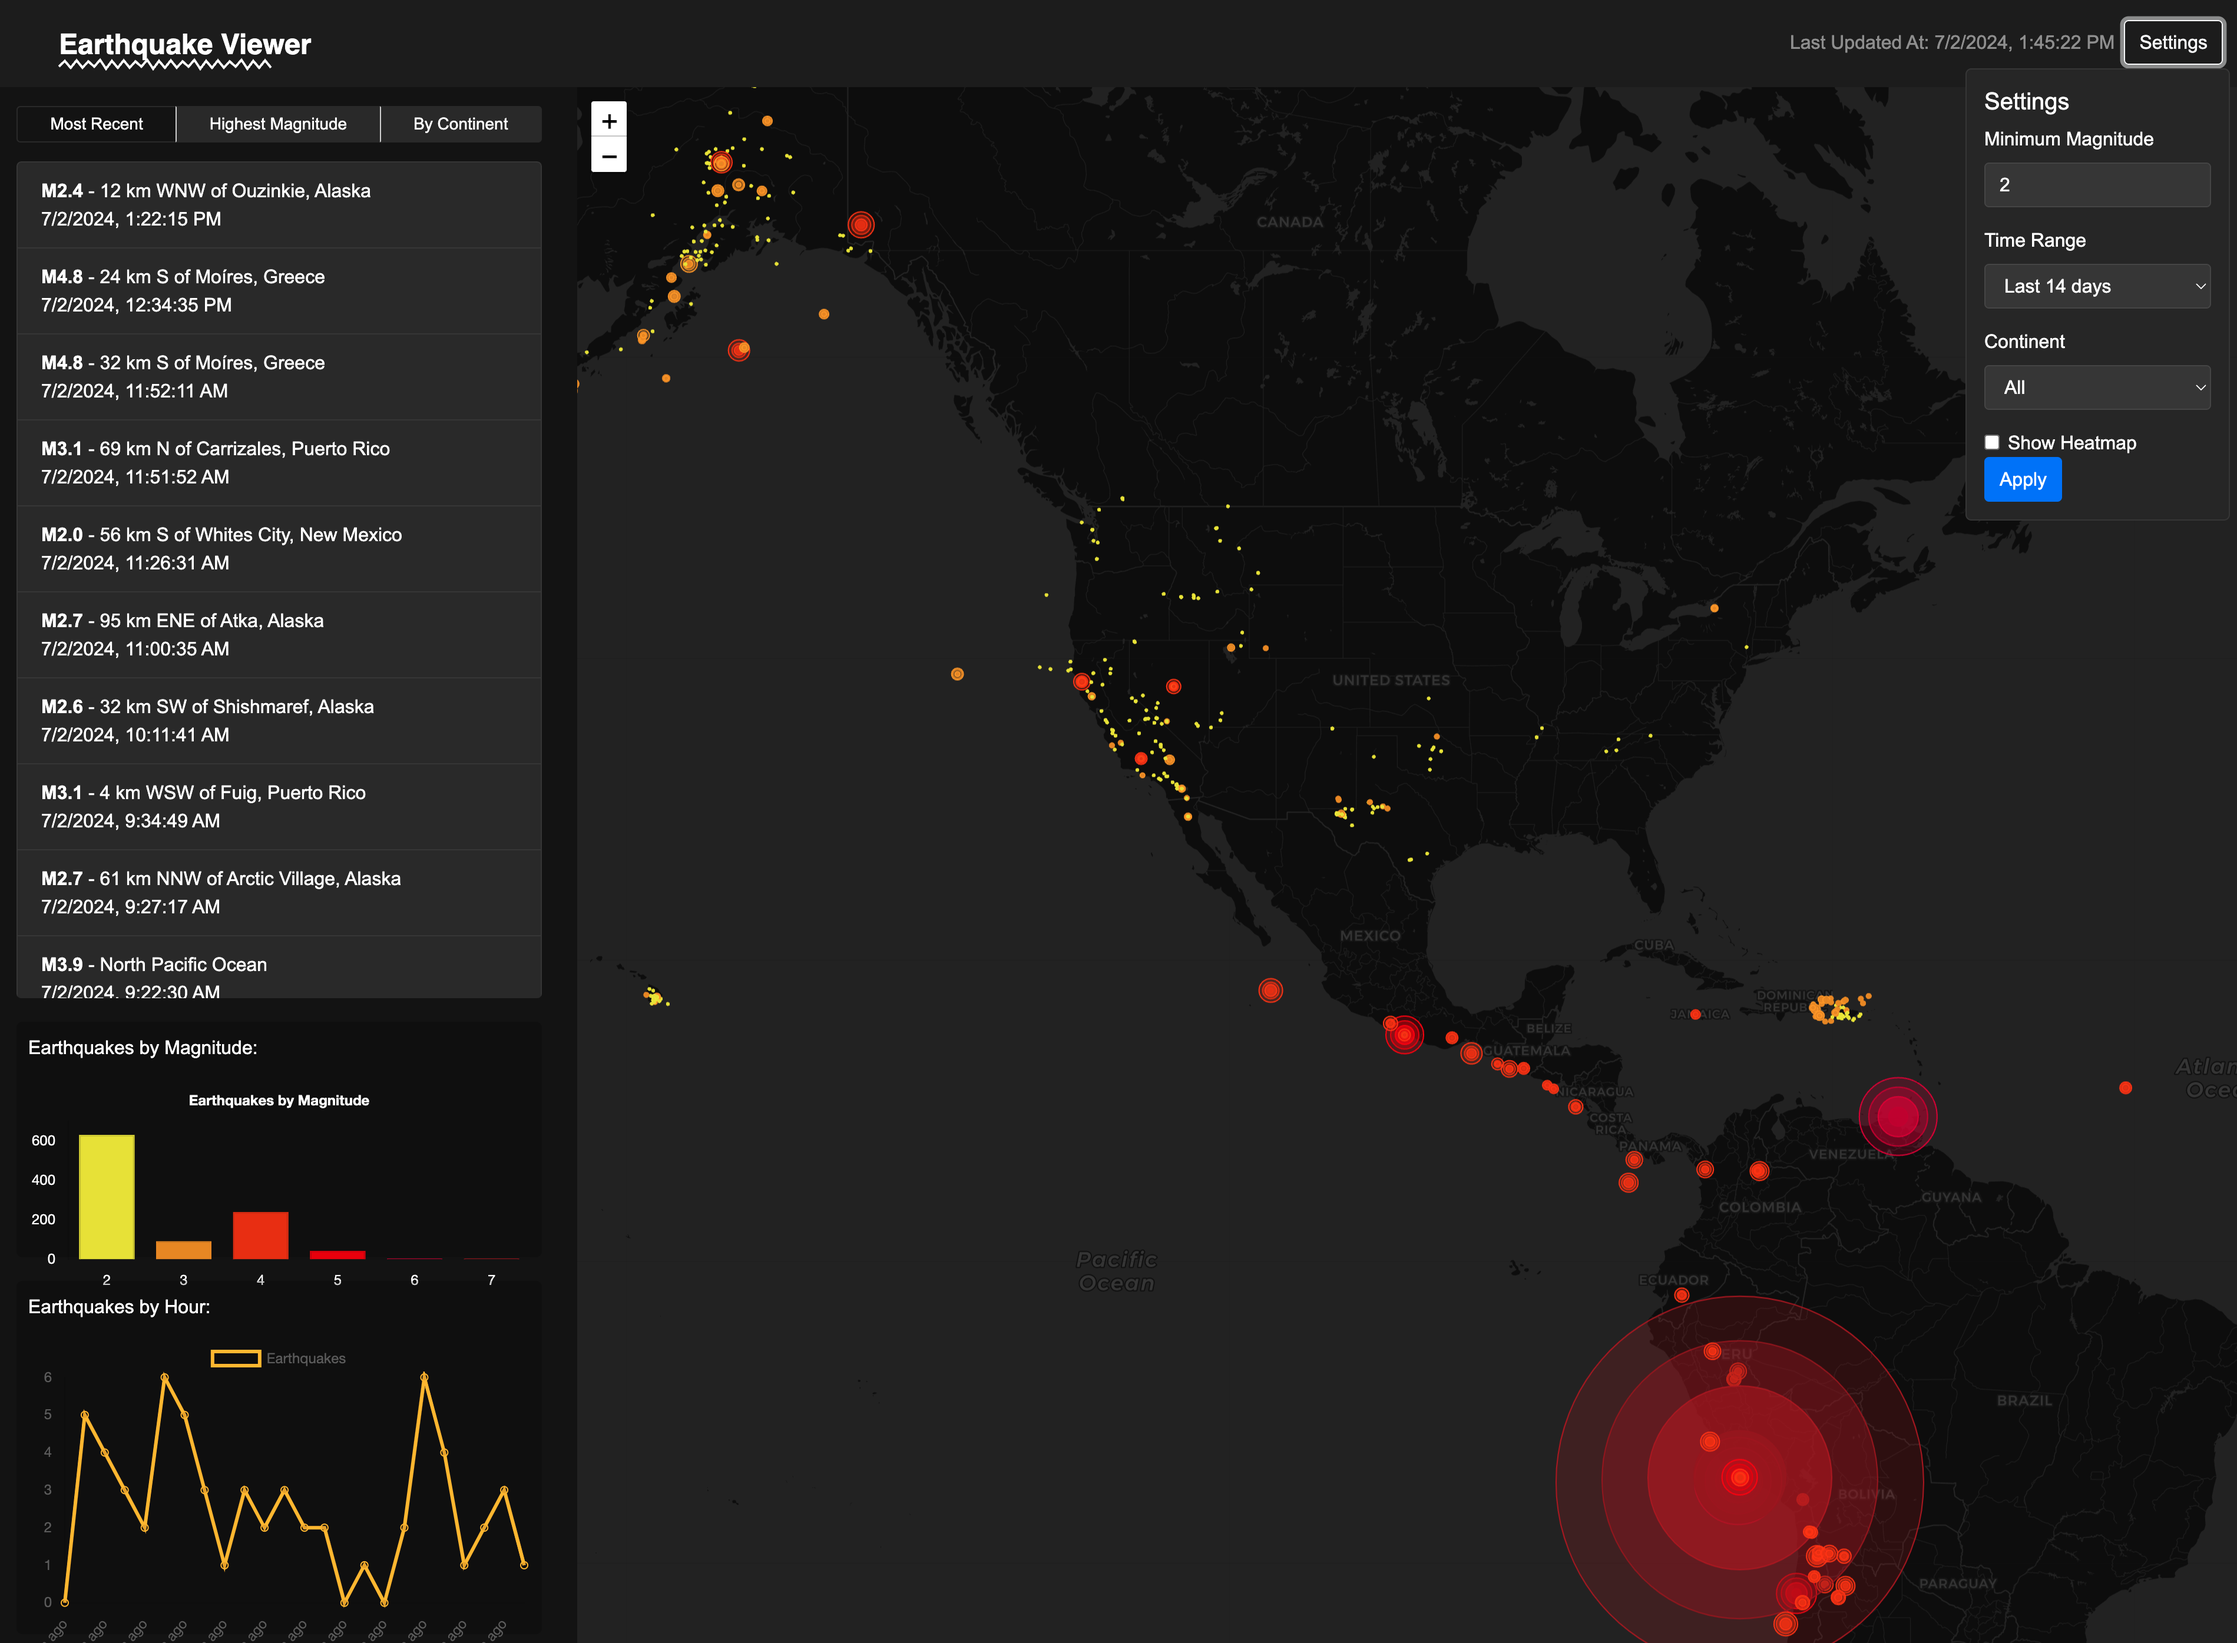
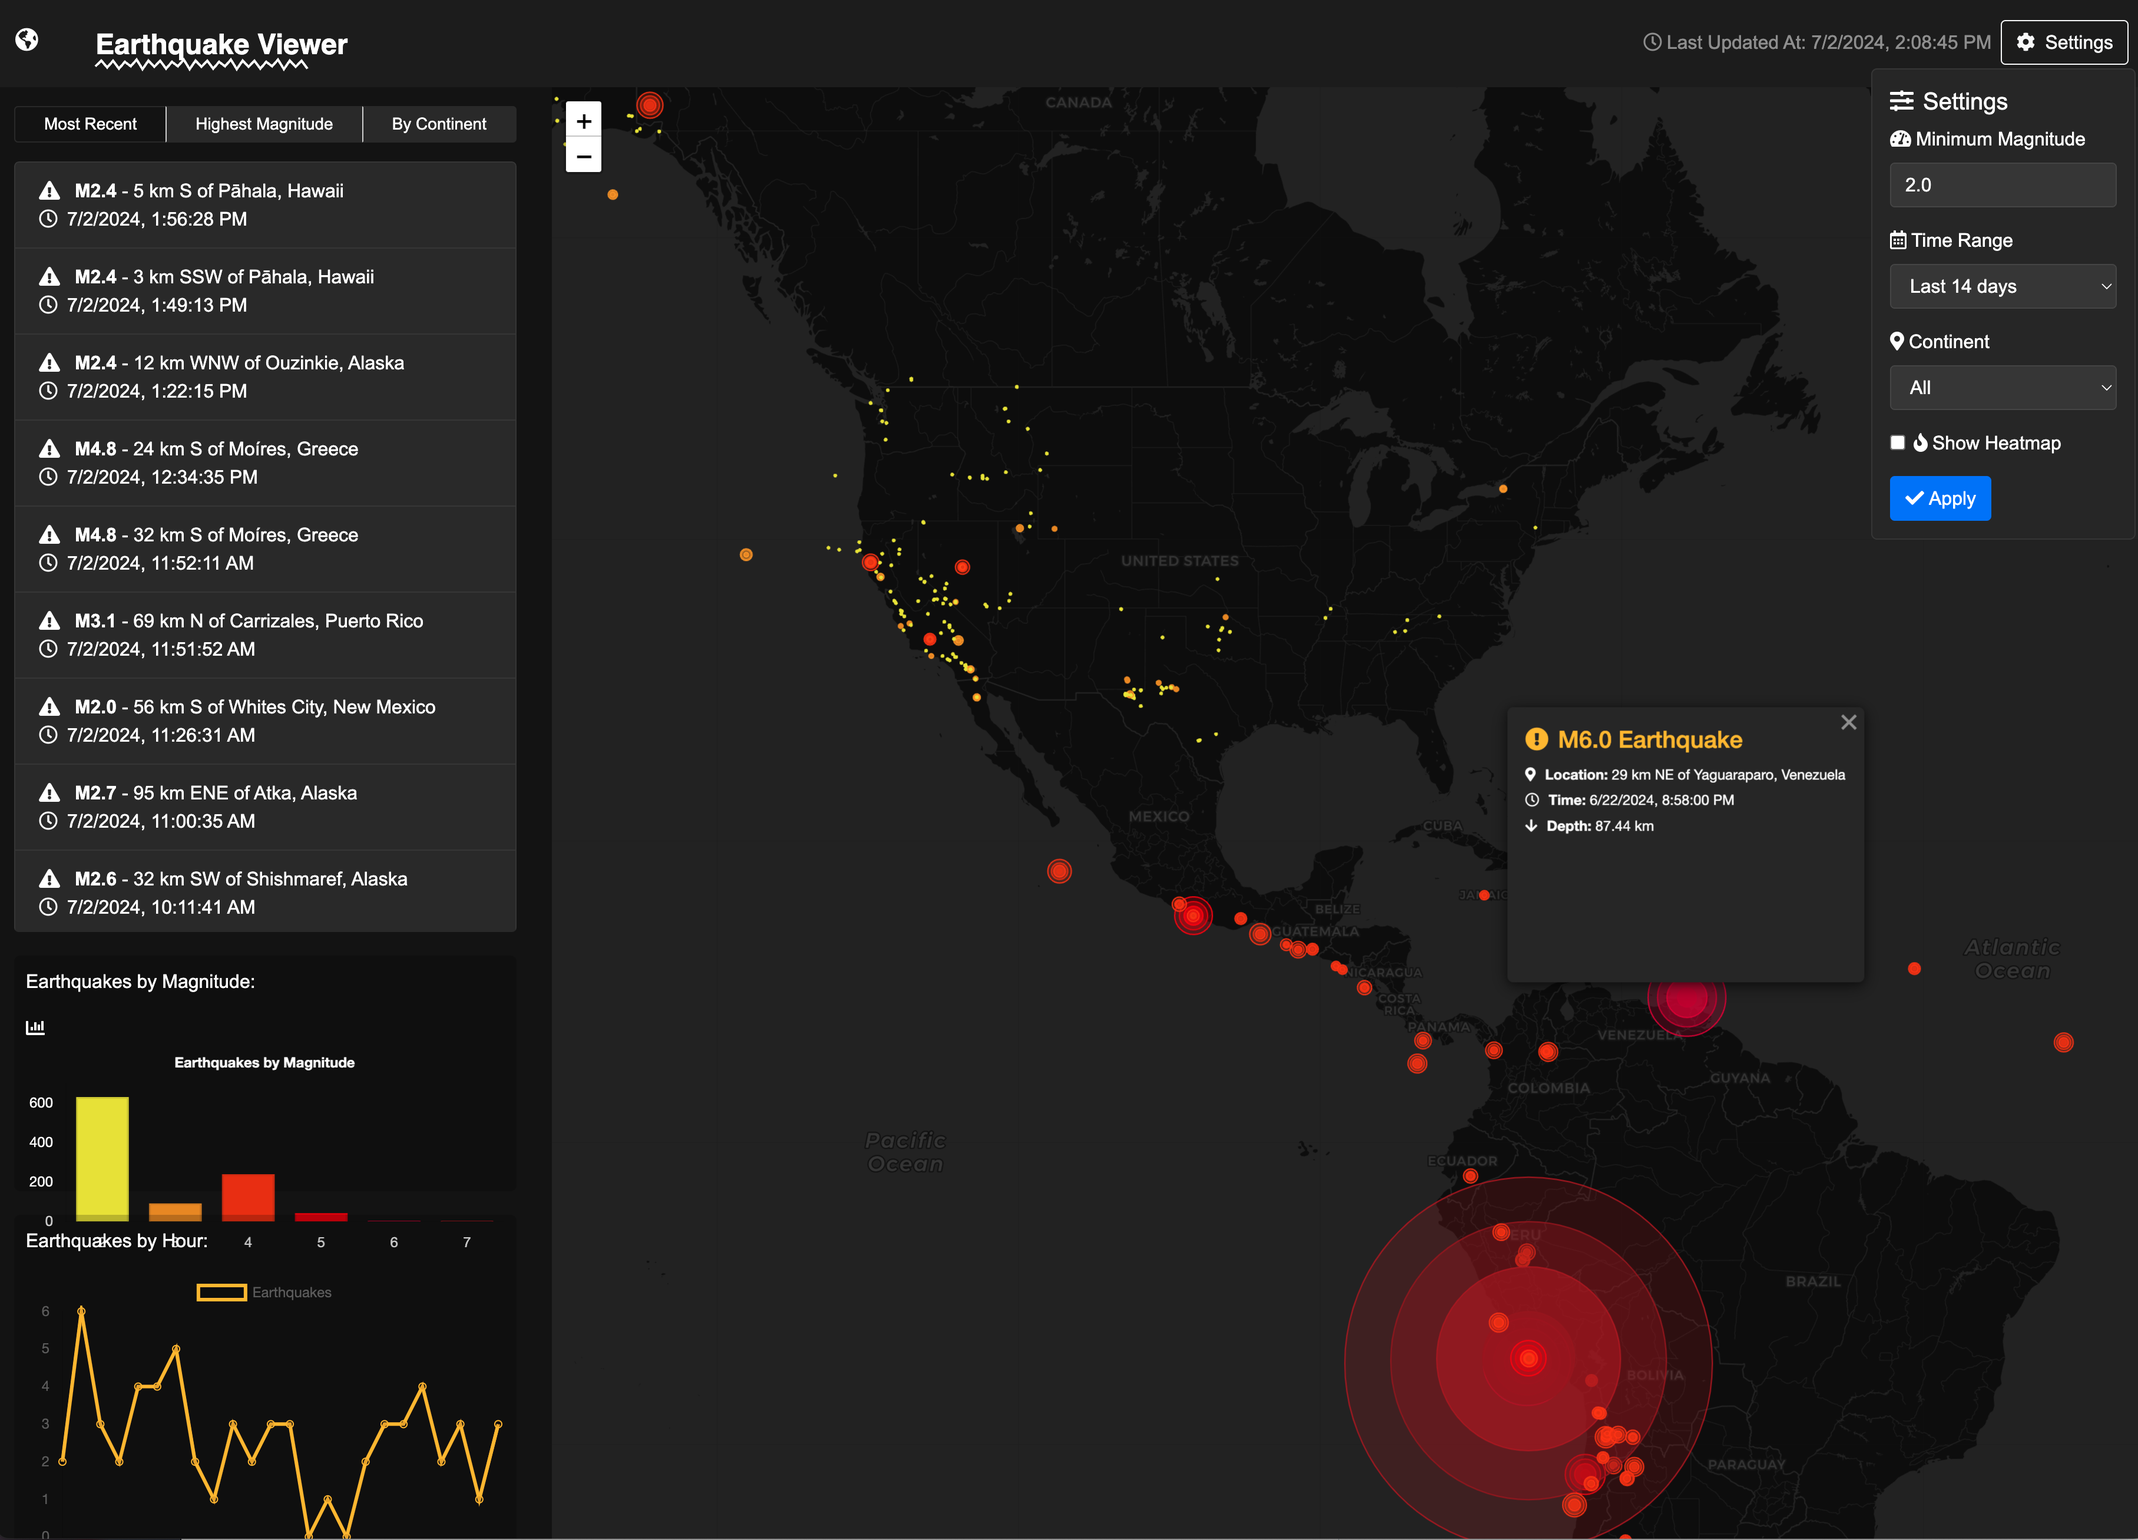
Added New Glyphs, New Screenshot

diff --git a/index.html b/index.html
@@ -5,6 +5,7 @@
     <meta name="viewport" content="width=device-width, initial-scale=1.0">
     <title>Recent Quakes</title>
     <link rel="stylesheet" href="https://stackpath.bootstrapcdn.com/bootstrap/4.5.2/css/bootstrap.min.css">
+    <link rel="stylesheet" href="https://cdnjs.cloudflare.com/ajax/libs/font-awesome/5.15.3/css/all.min.css">
     <link rel="stylesheet" href="https://unpkg.com/leaflet@1.7.1/dist/leaflet.css" />
     
     <!-- Custom CSS -->
@@ -13,6 +14,7 @@
 <body class="d-flex flex-column vh-100">
     <nav class="navbar navbar-expand-lg navbar-dark">
         <a class="navbar-brand" href="#">
+            <i class="fas fa-globe-americas mr-2"></i>
             <svg width="250" height="50" viewBox="0 0 200 50" xmlns="http://www.w3.org/2000/svg">
                 <style>
                   .text { font: bold 24px sans-serif; fill: #ffffff; }
@@ -38,32 +40,32 @@
               </svg>
         </a>
         <span class="navbar-text ml-auto" id="last-updated">
-            Last Updated At: <span id="update-time"></span>
+            <i class="far fa-clock mr-1"></i>Last Updated At: <span id="update-time"></span>
         </span>
         <button class="btn btn-outline-light ml-2" id="settings-btn">
-            <i class="fas fa-cog"></i> Settings
+            <i class="fas fa-cog mr-1"></i> Settings
         </button>
     </nav>
     
     <div id="settings-panel" class="d-none">
-        <h5>Settings</h5>
+        <h5><i class="fas fa-sliders-h mr-2"></i>Settings</h5>
         <div class="form-group">
-            <label for="magnitude-threshold">Minimum Magnitude</label>
-            <input type="number" class="form-control" id="magnitude-threshold" min="0" step="0.1" value="2">
+            <label for="magnitude-threshold"><i class="fas fa-tachometer-alt mr-1"></i>Minimum Magnitude</label>
+            <input type="number" class="form-control" id="magnitude-threshold" min="0" step="0.1" value="2.0">
         </div>
         <div class="form-group">
-            <label for="time-range">Time Range</label>
+            <label for="time-range"><i class="far fa-calendar-alt mr-1"></i>Time Range</label>
             <select class="form-control" id="time-range">
                 <option value="1">Last 24 hours</option>
                 <option value="7">Last 7 days</option>
-                <option selected value="14">Last 14 days</option>
+                <option value="14" selected>Last 14 days</option>
                 <option value="30">Last 30 days</option>
             </select>
         </div>
         <div class="form-group">
-            <label for="continent-filter">Continent</label>
+            <label for="continent-filter"><i class="fas fa-map-marker-alt mr-1"></i>Continent</label>
             <select class="form-control" id="continent-filter">
-                <option value="all">All</option>
+                <option value="all" selected>All</option>
                 <option value="north_america">North America</option>
                 <option value="south_america">South America</option>
                 <option value="europe">Europe</option>
@@ -75,10 +77,12 @@
         <div class="form-check">
             <input class="form-check-input" type="checkbox" id="heatmap-toggle">
             <label class="form-check-label" for="heatmap-toggle">
-                Show Heatmap
+                <i class="fas fa-fire mr-1"></i>Show Heatmap
             </label>
         </div>
-        <button class="btn btn-primary" id="apply-settings">Apply</button>
+        <button class="btn btn-primary mt-3" id="apply-settings">
+            <i class="fas fa-check mr-1"></i>Apply
+        </button>
     </div>
 
     <div class="container-fluid flex-grow-1">

diff --git a/js/script.js b/js/script.js
@@ -86,8 +86,9 @@ document.addEventListener('DOMContentLoaded', function() {
             quakeItem.href = '#';
             quakeItem.classList.add('list-group-item', 'list-group-item-action', `magnitude-${Math.floor(magnitude)}`);
             quakeItem.innerHTML = `
+                <i class="fas fa-exclamation-triangle mr-2"></i>
                 <strong>M${magnitude.toFixed(1)}</strong> - ${location}<br>
-                ${time}
+                <i class="far fa-clock mr-2"></i>${time}
             `;
             quakeItem.addEventListener('click', (e) => {
                 e.preventDefault();
@@ -96,6 +97,8 @@ document.addEventListener('DOMContentLoaded', function() {
             quakeList.appendChild(quakeItem);
         });
     }
+
+    
 
     function calculateRadius(magnitude) {
         // More dramatic scaling function
@@ -136,11 +139,13 @@ document.addEventListener('DOMContentLoaded', function() {
         const chartId = `quake-chart-${quake.id}`;
     
         return `
-            <h5>M${magnitude.toFixed(1)} Earthquake</h5>
-            <p><strong>Location:</strong> ${location}</p>
-            <p><strong>Time:</strong> ${time}</p>
-            <p><strong>Depth:</strong> ${depth.toFixed(2)} km</p>
-            <canvas id="${chartId}" width="200" height="100"></canvas>
+            <div class="quake-popup">
+                <h5><i class="fas fa-exclamation-circle mr-2"></i>M${magnitude.toFixed(1)} Earthquake</h5>
+                <p><i class="fas fa-map-marker-alt mr-2"></i><strong>Location:</strong> ${location}</p>
+                <p><i class="far fa-clock mr-2"></i><strong>Time:</strong> ${time}</p>
+                <p><i class="fas fa-arrow-down mr-2"></i><strong>Depth:</strong> ${depth.toFixed(2)} km</p>
+                <canvas id="${chartId}" width="200" height="100"></canvas>
+            </div>
         `;
     }
     
@@ -290,6 +295,11 @@ document.addEventListener('DOMContentLoaded', function() {
                 }
             }
         });
+
+        // After creating the chart
+        const chartCanvas = document.getElementById('magnitude-chart');
+        const iconHtml = '<i class="fas fa-chart-bar" style="margin-right: 10px;"></i>';
+        chartCanvas.insertAdjacentHTML('beforebegin', iconHtml);
     }
 
     function updateHourlyChart() {
